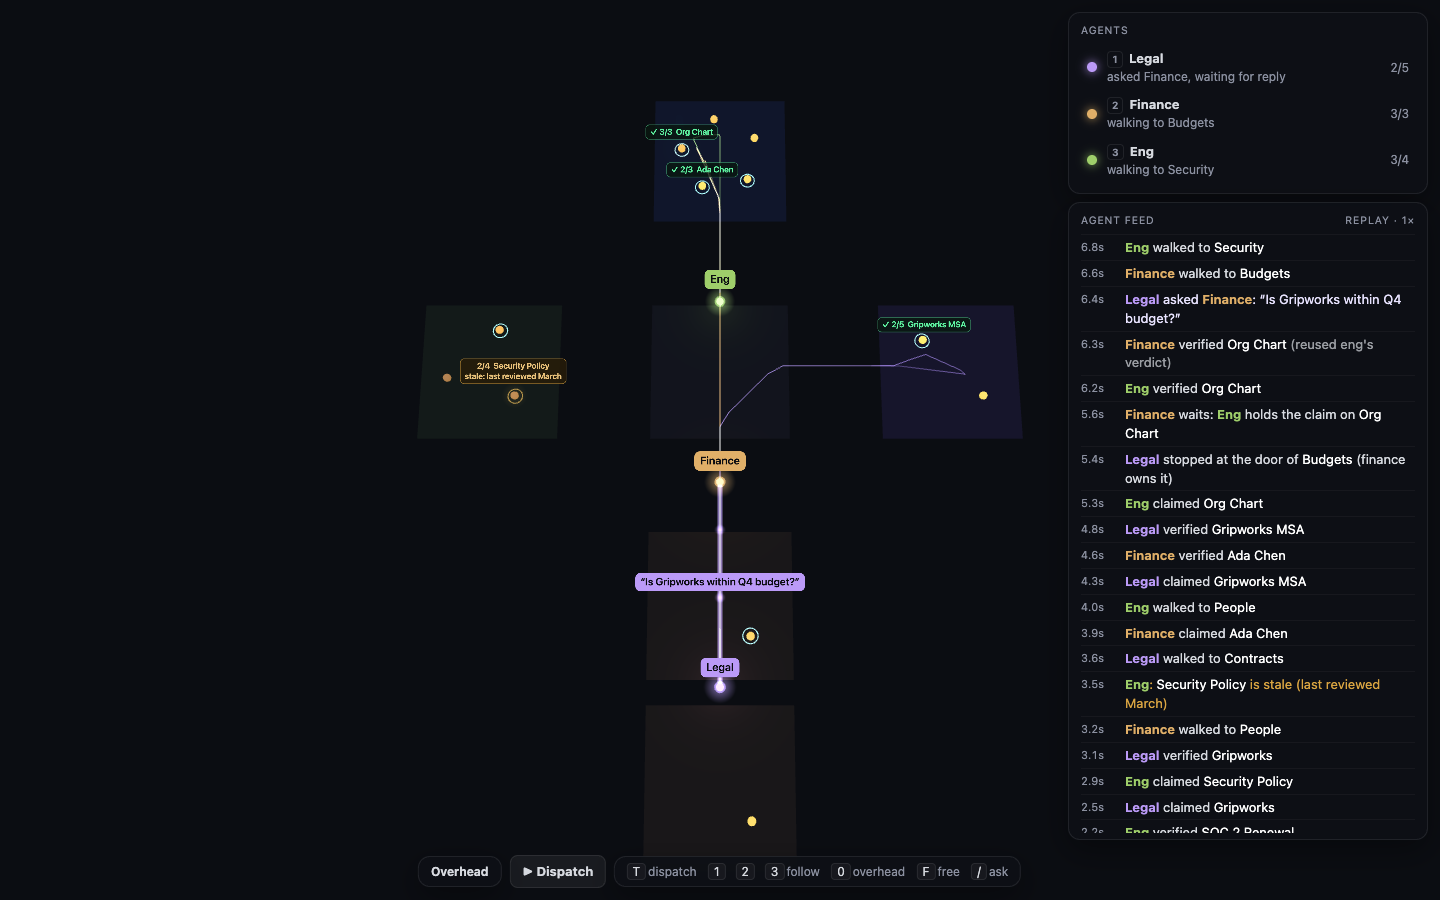
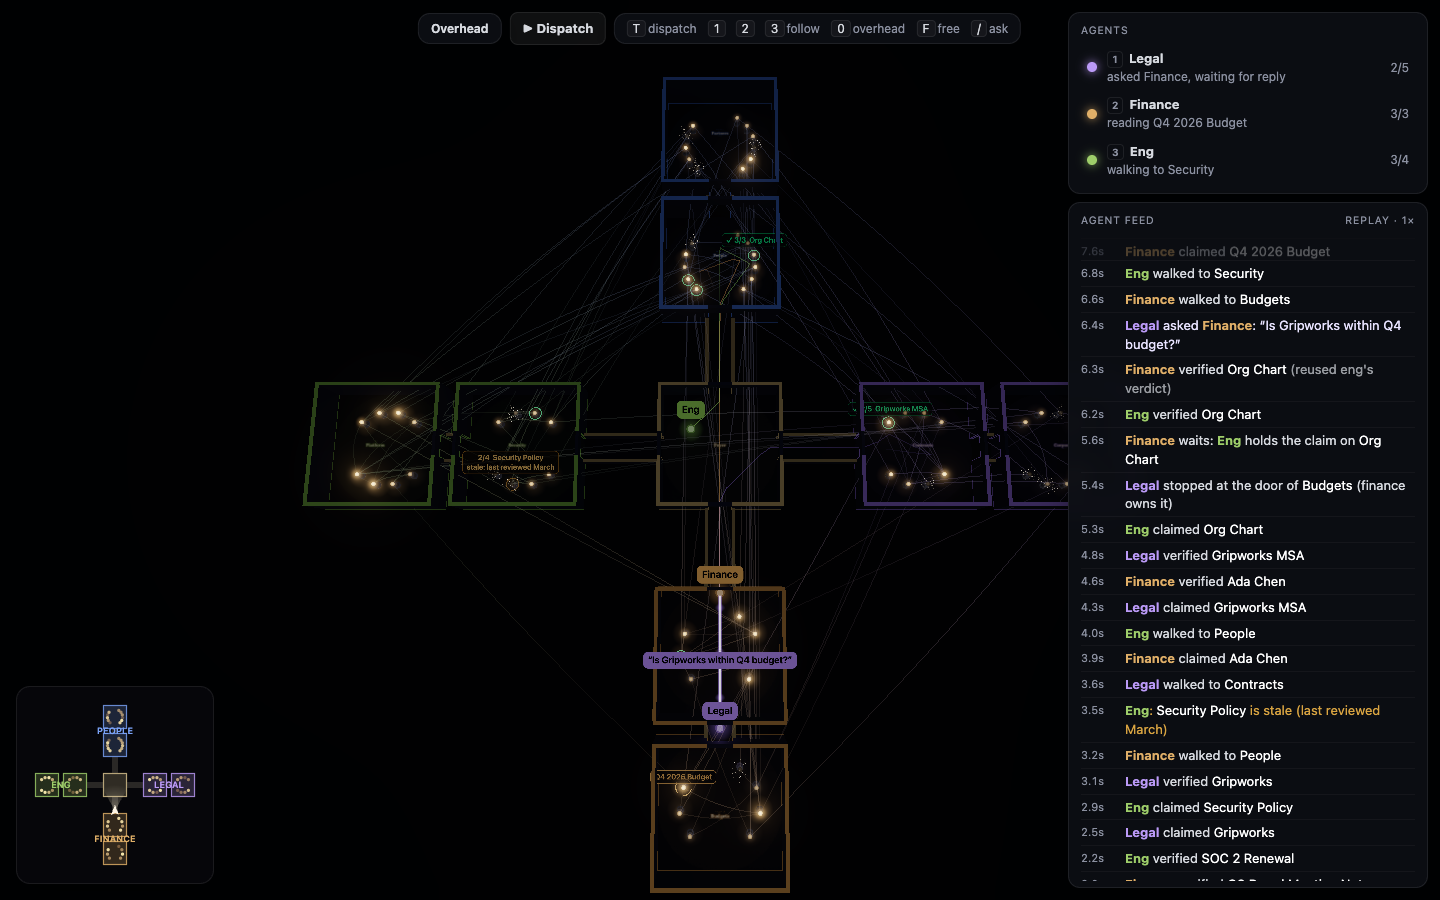
presence: [x] tested on real scene + 9-room palace, overhead framing, readable labels, notes + lessons + QA media

diff --git a/web/src/agents/index.ts b/web/src/agents/index.ts
@@ -164,11 +164,12 @@ export const mountPresence: Plugin = (rt) => {
   // ---- camera modes: free walk (default), follow agent (1-3), overhead (0 / O)
   const cam = director(rt);
   let mode: CamMode = "free";
-  const overhead = overheadPose(rt);
+  let overhead = overheadPose(rt);
   function setMode(next: CamMode) {
     if (next !== "free" && next !== "overhead" && !avatars.has(next)) return;
     if (next === mode && next !== "free") next = "free"; // pressing the same key again toggles back
     mode = next;
+    if (mode === "overhead") overhead = overheadPose(rt);
     if (mode === "free") cam.drop("presence");
     else
       cam.hold("presence", 1, () => {
@@ -258,9 +259,12 @@ function overheadPose(rt: PalaceRuntime) {
   const size = box.getSize(new THREE.Vector3());
   const vfov = (rt.camera.fov * Math.PI) / 180;
   const aspect = Math.max(0.5, rt.camera.aspect);
-  const needZ = size.z / 2 / Math.tan(vfov / 2);
-  const needX = size.x / 2 / (Math.tan(vfov / 2) * aspect);
-  const h = Math.max(needZ, needX) * 1.08 + 4;
-  // a slight tilt reads better than straight down and keeps the up vector well-defined
+  const tan = Math.tan(vfov / 2);
+  // the ui's right column (~372 px) covers part of the screen: frame the palace in the visible part
+  const f = innerWidth > 900 ? Math.max(0.5, (innerWidth - 390) / innerWidth) : 1;
+  const needZ = size.z / 2 / tan;
+  const needX = size.x / 2 / (tan * aspect * f);
+  const h = Math.max(needZ, needX) * 1.06 + 4;
+  c.x += (1 - f) * h * tan * aspect;
   return { pos: new THREE.Vector3(c.x, h, c.z + h * 0.18), look: c.clone(), rate: 2.5 };
 }

diff --git a/web/src/walk.ts b/web/src/walk.ts
@@ -169,7 +169,8 @@ function play(rt: PalaceRuntime, trace: TraceT, source: string, onEnd: () => voi
     const u = uAt(t);
     curve.getPointAt(u, orbPos);
     guide.position.copy(orbPos);
-    halo.scale.setScalar(2.2 + 0.3 * Math.sin(t * 6));
+    halo.scale.setScalar(answered ? 1.2 : 2.2 + 0.3 * Math.sin(t * 6));
+    light.intensity = answered ? 4 : 14;
 
     for (let i = reached + 1; i < hops.length; i++) {
       if (t >= (i + 1) * seg - 0.05) (reached = i), arrive(i);
@@ -213,6 +214,7 @@ function play(rt: PalaceRuntime, trace: TraceT, source: string, onEnd: () => voi
     curve.getPointAt(back, behind);
     const pos = behind.clone().add(new THREE.Vector3(0, 1.9, 0));
     if (pos.distanceTo(orbPos) < 1.5) pos.add(new THREE.Vector3(0, 0.8, 1.2)); // at the very start
+    if (answered) pos.add(new THREE.Vector3(0, 1.4, 0)).lerp(orbPos, -0.35); // pull back to frame the answer
     return { pos, look: orbPos.clone(), rate: t < 0 ? 2.5 : 5 };
   });
 

diff --git a/web/src/ui/index.ts b/web/src/ui/index.ts
@@ -172,6 +172,7 @@ export const mountUI: Plugin = (rt) => {
         const hnd = handoffs.get(e.id);
         line(e, `${A(e.agent)} answered ${hnd ? A(hnd.from) : "the handoff"}: “${esc(e.answer)}”`, "reply");
         if (hnd) {
+          setStatus(e.agent, `replied to ${N.agent(hnd.from)}`);
           setStatus(hnd.from, `got ${N.agent(e.agent)}'s reply`);
           // the owner's verified answer covers the asker's station
           if (routes.get(hnd.from)?.includes(hnd.memoryId)) done.get(hnd.from)?.add(hnd.memoryId);

diff --git a/web/src/agents/fx.ts b/web/src/agents/fx.ts
@@ -24,6 +24,7 @@ export function makeLabel(text: string, opts: LabelOpts = {}) {
     depthTest: !opts.onTop,
     depthWrite: false,
     sizeAttenuation: !opts.screen,
+    toneMapped: false, // text keeps its exact colours under the scene's tone mapping / dim
   });
   const sprite = new THREE.Sprite(mat);
   sprite.renderOrder = opts.onTop ? 20 : 5;

diff --git a/NOTES-presence.md b/NOTES-presence.md
@@ -1,0 +1,85 @@
+# NOTES: presence workspace
+
+Branch `ws/presence`. Owns `web/src/agents/`, `web/src/walk.ts`, `web/src/ui/`, `web/src/nav.ts`.
+No changes to `api.ts`, `events.ts`, `schema.ts`, `plugins.ts`, `package.json` or scene files. No new dependencies.
+
+## What's built
+- `nav.ts`: `pathBetween(palace, from, roomId | memoryId | {room, point}, {y, stopAtDoor})`. BFS over the
+  door graph, then for each room hop: inset point → door → **the scene's own corridor legs** (imported from
+  `scene/layout.ts` `buildLayout().corridors`, so straight/L/Z corridors all work) → partner door → inset.
+  Falls back to a straight door-to-door line if a pair has no corridor. Checked against the scene's wall
+  colliders: 0 hits over ~520k samples on the 9-room palace, and 0 on a synthetic Z-corridor room.
+- `agents/`: presence layer, a pure function of `rt.events`.
+  - `avatar.ts`: orb in team colour, halo, point light, constant-screen-size name tag, fading trail, dotted
+    "waiting" ring. Walks a waypoint queue at a cruise speed set so the whole backlog lands in ~1.6 s (× replay
+    speed), then eases in. Never lags the stream, so 1x and 3x end in the same place.
+  - `stations.ts`: claimed = spinning arcs in the agent colour + "2/5 Title" tag; verified = green flare,
+    column, then steady green ring (label hides after 3 s); stale = dim amber ring + note; gap = pulsing
+    amber ring, column, glow and a large constant-size "gap: no owner recorded" note below the orb.
+  - `beams.ts`: handoff beam between the two avatars with packets and the question as a label; on
+    `reply` it flips to the owner's colour, shows the answer for 1.2 s, then fades.
+  - `camera.ts`: one camera director shared by presence modes and the walk (priority: walk > presence).
+    Calls `controls.release()` on the first holder and `restore()` when the last one leaves; re-applies the
+    pose in `scene.onBeforeRender` (chained) so no controller can fight it.
+  - `run.ts`: new-run detection (run id change, or `t` going backwards), plain-word names.
+  - `index.ts`: event handling, camera modes, `T` dispatch.
+- `ui/`: right column = agent roster (status, route progress, click to follow), answer cards (cited station
+  chips in green, gaps in amber, stale in dim amber, `blocked` in red), plain-words feed (newest first).
+  Left = memory side panel on `UI_EVENTS.select` (title, room/wing, freshness bar, agent verdicts on that
+  station, excerpt or an amber "page is empty", linked memories that `flyTo` and re-open the panel).
+  Top centre = camera mode, Dispatch button, key hints, toasts; ask bar opens below it on `/`.
+- `walk.ts`: ask bar → `POST :8787/ask` (8 s timeout) → canned `/traces/demo-1.json` on any error or
+  under `?demo`. Guide orb along a centripetal Catmull-Rom through `pathBetween` waypoints, 8-15 s split
+  evenly per hop with ease in/out, `setMemoryGlow(id, 4)` flare + "N. reason" label + `setRoomLit` per hop,
+  7 s fading gold trail, palace dimmed to 0.3, answer panel with cited chips, Esc restores everything.
+
+## Keys
+`T` dispatch · `1`/`2`/`3` follow Legal/Finance/Eng (same key again = free walk) · `0` or `O` overhead ·
+`F` or `Esc` free walk · `/` ask. The roster rows and the Dispatch button do the same with the mouse.
+
+## Calls I made without a human
+- **Foreign rooms are approached, not entered.** On `move` into a room owned by another team (not `shared`),
+  the avatar stops ~0.8 m outside that room's door (loci rule 3, demo beat 6). Legal waits at the Budgets
+  door while the beam runs to Finance.
+- **Reset on a new run** is detected from the stream itself (run id changes or `t` jumps back), so `T`
+  in demo mode (`rt.events.restart()`) and a fresh live dispatch both clear rings, beams, feed and answers.
+- **Live `T`**: `POST http://localhost:8788/dispatch` with `{"tasks":[{agent,text}×3]}` (4 s timeout). If the
+  bridge is down it toasts "Bridge offline, replaying demo-1 instead" and runs `rt.events.restart("demo-1")`
+  (which works in live mode too), so pressing T on stage always shows something.
+- Route progress counts only stations on the agent's route; a station covered by a handoff reply counts for
+  the asker (Legal ends 5/5).
+- Labels on avatars, beams, station states and walk hops use constant on-screen size (`sizeAttenuation:
+  false`) and `toneMapped: false`, so they stay readable in overhead view and under the scene's dim/bloom.
+- Overhead view frames the palace in the part of the screen not covered by the right column.
+- Presence never calls `setMemoryGlow` (the walk owns it) to avoid fighting over orb glow.
+- `nav.ts` imports `buildLayout` from `scene/layout.ts` (read-only use of a pure scene module) so agents
+  walk the exact corridors the scene draws. A throw inside `buildLayout` falls back to straight
+  door-to-door lines, but renaming/removing the export breaks the build: keep `buildLayout(palace).corridors`
+  stable or tell presence.
+
+## For the integrator
+- `main.ts` auto-starts the replay on load under `?demo`. For the stage, load `?demo`, let it play (or not),
+  then press `T` to restart from zero. If you want a quiet start, a `?demo&hold` that skips the auto
+  `restart()` in `main.ts` would be a scene/integrator change.
+- Stage pacing: the demo-1 replay is 13.2 s at 1x. The skill wants 15-25 s: use `?demo&speed=0.7`
+  (~19 s). All timing (walk speed, flares, beam fade) scales with `rt.events.speed`.
+- `window.presence` and `window.walk.play(trace)` are QA hooks, not contract.
+- Screenshots and a GIF live in `web/src/agents/qa/` (not imported by the app). Delete after the PR if you
+  don't want binaries in the tree.
+- Proposal (not blocking): an `rt.controls.lookAt(pos, target)` or `setPlayerPose` in `api.ts` would let the
+  camera director drop the `scene.onBeforeRender` re-apply trick.
+
+## Verification
+- `bun run validate && bun run typecheck && bun run build`: green (after merging main with the 9-room palace).
+- Headless Chrome (playwright-core + system Chrome, real scene from main, GPU):
+  - `/?demo`: fan-out, claims, stale Security Policy, Finance's dotted wait ring at Org Chart while Eng holds
+    the claim, Legal stops at the Budgets door, handoff beam Legal→Finance with the question, reply flips the
+    beam, pulsing amber gap at `eng/soc2-owner` with "gap: no owner recorded", three answer cards.
+  - End state at `?demo` (17 s) and `?demo&speed=3` (7 s) compared programmatically: station states, avatar
+    positions, open beams, answer count, gap chips, roster and every feed line are identical.
+  - `?demo=contract-run2` (run ids, learned route) plays cleanly.
+  - Live mode with the bridge down: `T` falls back to the replay, same end state.
+  - Ask bar `/` + Enter under `?demo`: 5-hop walk through doors, labels, lit rooms, answer panel, Esc restores.
+  - Follow (1-3) and overhead (0) modes work with the real PointerLock controls released/restored.
+- **Pending for integrator:** pointer-lock feel after Esc on a real laptop (headless can't lock the pointer);
+  fps with three avatars + point lights on the demo machine (each avatar adds one PointLight).

diff --git a/.claude/skills/presence-lessons/SKILL.md b/.claude/skills/presence-lessons/SKILL.md
@@ -1,0 +1,31 @@
+---
+name: presence-lessons
+description: Lessons from the presence workspace (agent avatars, station states, handoff beams, feed, camera modes, ask-bar walk, nav). Load before changing web/src/agents, web/src/ui, web/src/walk.ts or web/src/nav.ts in Mind Palace.
+---
+# Presence lessons
+
+- **Catch-up speed must be linear, not proportional.** `speed = remaining / T` recomputed every frame is an
+  exponential decay: avatars never quite arrive and lagged 3-4 s behind the stream (Legal was still in the
+  foyer when its handoff beam fired). Fix: set a cruise speed once per `walk()` so the whole queue lands in
+  ~1.6 s, then ease in over the last meters.
+- **Final state = events only.** Markers are set on events; avatars always drain their queue; timed effects
+  (flares, beam fade, verified label hide) use `dt × replay speed`. Then 1x and 3x end states compare equal
+  field by field (check this programmatically, not by eyeballing screenshots).
+- **Detect runs from the stream** (run id change or `t` jumping back). `rt.events.restart()` emits no reset
+  event, and live dispatches restart `t` at 0.
+- **Walk the scene's corridors, not your guess of them.** Corridors can be L or Z shaped. `nav.ts` reads
+  `buildLayout(palace).corridors` from `scene/layout.ts`; verify with the scene's colliders (0 hits).
+- **Camera ownership:** one director with priorities (walk > presence). Re-apply the pose in a chained
+  `scene.onBeforeRender` + `camera.updateMatrixWorld()`, because OrbitControls.update() calls `lookAt`
+  even when disabled. `controls.restore()` can't re-lock the pointer; the scene shows "Click to walk".
+- **Labels:** `sizeAttenuation: false` for anything that must read in overhead view, `toneMapped: false` so
+  bloom/dim don't wash text out, and `sprite.center` to anchor above/below the point at any zoom. Gap note
+  goes below the orb so the reporting agent's tag doesn't cover it.
+- **HUD placement:** scene owns bottom-centre (Click to walk hint) and bottom-left (minimap). Presence uses
+  top-centre (bar, ask, toasts), right (roster, answers, feed) and top-left (memory panel, height-capped).
+  Set `pointer-events: none` inline on full-screen roots; `#hud > *` sets `auto` and would eat canvas clicks.
+- **Headless QA that worked:** playwright-core + `channel: "chrome"` (system Chrome, GPU), a script that
+  presses keys at given times, screenshots, and dumps `window.presence` state. Keep it outside the repo or
+  in an untracked dir. The Chrome extension may be unavailable; don't wait on it.
+- What I'd do differently: build the 1x/3x state-diff script first; it caught nothing wrong in markers but
+  made the avatar-lag bug obvious once I looked at positions at a fixed replay time.
